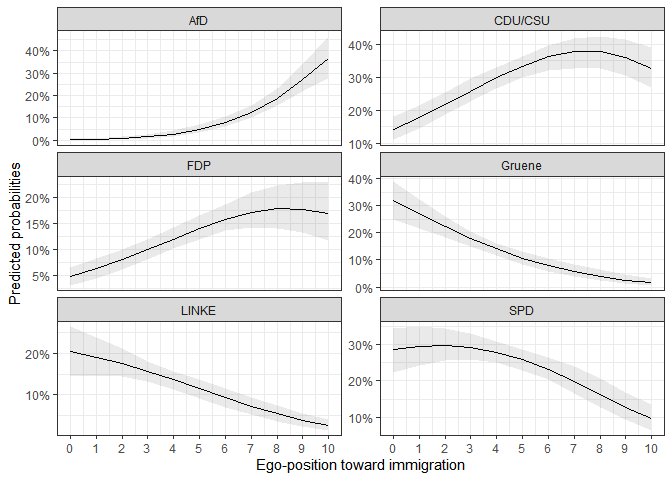
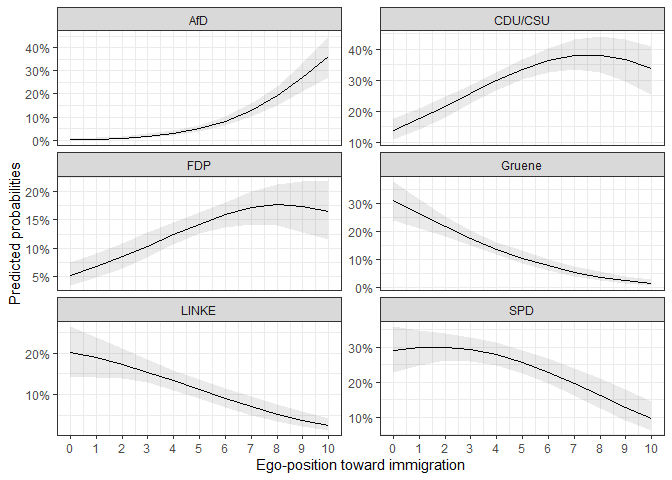
Migrating from Travis CI to GitHub Actions

diff --git a/README.md b/README.md
@@ -7,11 +7,11 @@
 
 [![GPLv3
 license](https://img.shields.io/badge/License-GPLv3-blue.svg)](https://perso.crans.org/besson/LICENSE.html)
-[![Travis build
-status](https://travis-ci.org/ManuelNeumann/MNLpred.svg?branch=master)](https://travis-ci.org/ManuelNeumann/MNLpred)
 [![CRAN\_Status\_Badge](https://www.r-pkg.org/badges/version/MNLpred)](https://cran.r-project.org/package=MNLpred)
 [![downloads](https://cranlogs.r-pkg.org/badges/MNLpred)](https://www.r-pkg.org/badges/version/MNLpred)
 [![total\_downloads](https://cranlogs.r-pkg.org/badges/grand-total/MNLpred)](https://www.r-pkg.org/badges/version/MNLpred)
+[![R build
+status](https://github.com/ManuelNeumann/MNLpred/workflows/R-CMD-check/badge.svg)](https://github.com/ManuelNeumann/MNLpred/actions)
 <!-- badges: end -->
 
 This package provides functions that make it easy to get plottable
@@ -254,6 +254,7 @@ pred1 <- mnl_pred_ova(model = mod1,
                       seed = "random", # default
                       nsim = 100, # faster
                       probs = c(0.025, 0.975)) # default
+#> Warning: The argument xvari is deprecated; please use x instead.
 #> Multiplying values with simulated estimates:
 #> ================================================================================
 #> Applying link function:
@@ -266,13 +267,13 @@ returns a `plotdata` data set:
 
 ``` r
 pred1$plotdata %>% head()
-#>   egoposition_immigration vote        mean        lower       upper
-#> 1                       0  AfD 0.002280170 0.0008558598 0.005491734
-#> 2                       1  AfD 0.004375939 0.0018961206 0.009450405
-#> 3                       2  AfD 0.008229726 0.0041619617 0.016110250
-#> 4                       3  AfD 0.015121617 0.0088159160 0.027347834
-#> 5                       4  AfD 0.027047128 0.0178399439 0.044993868
-#> 6                       5  AfD 0.046869060 0.0344841912 0.070355686
+#>   egoposition_immigration vote        mean       lower       upper
+#> 1                       0  AfD 0.002573855 0.001037561 0.006108907
+#> 2                       1  AfD 0.004879975 0.002281916 0.010206829
+#> 3                       2  AfD 0.009071440 0.004868063 0.017062220
+#> 4                       3  AfD 0.016474478 0.009890898 0.027905467
+#> 5                       4  AfD 0.029107386 0.019508769 0.043061536
+#> 6                       5  AfD 0.049774098 0.036301252 0.065773320
 ```
 
 As we can see, it includes the range of the x variable, a mean, a lower,
@@ -313,6 +314,7 @@ fdif1 <- mnl_fd2_ova(model = mod1,
                      value1 = min(gles$egoposition_immigration),
                      value2 = max(gles$egoposition_immigration),
                      nsim = 100)
+#> Warning: The argument xvari is deprecated; please use x instead.
 #> Multiplying values with simulated estimates:
 #> ================================================================================
 #> Applying link function:
@@ -356,6 +358,9 @@ fdif2 <- mnl_fd_ova(model = mod1,
                     scenname = "gender",
                     scenvalues = c(0,1),
                     nsim = 100)
+#> Warning: The argument xvari is deprecated; please use x instead.
+#> Warning: The argument scenname is deprecated; please use z instead.
+#> Warning: The argument scenvalues is deprecated; please use z_values instead.
 #> First scenario:
 #> Multiplying values with simulated estimates:
 #> ================================================================================
@@ -376,13 +381,13 @@ used to plot the differences.
 
 ``` r
 fdif2$plotdata_fd %>% head()
-#>   egoposition_immigration vote         mean        lower        upper
-#> 1                       0  AfD -0.003090183 -0.006936944 -0.001006274
-#> 2                       1  AfD -0.005810533 -0.011890347 -0.002198163
-#> 3                       2  AfD -0.010675364 -0.020070808 -0.004674165
-#> 4                       3  AfD -0.019088597 -0.033123068 -0.009552083
-#> 5                       4  AfD -0.033055017 -0.052620717 -0.018523845
-#> 6                       5  AfD -0.055067265 -0.081466477 -0.034462678
+#>   egoposition_immigration vote         mean        lower         upper
+#> 1                       0  AfD -0.002885746 -0.006398719 -0.0009715812
+#> 2                       1  AfD -0.005470656 -0.011406509 -0.0021341759
+#> 3                       2  AfD -0.010132628 -0.019666757 -0.0043554636
+#> 4                       3  AfD -0.018265903 -0.031968308 -0.0084270058
+#> 5                       4  AfD -0.031887635 -0.050668206 -0.0168462669
+#> 6                       5  AfD -0.053539723 -0.078863334 -0.0302089752
 ```
 
 Since the function calls the `mnl_pred_ova()` function internally, it
@@ -465,7 +470,7 @@ Gschwend](https://www.sowi.uni-mannheim.de/gschwend/)).
 
 ## References
 
-<div id="refs" class="references hanging-indent">
+<div id="refs" class="references">
 
 <div id="ref-hanmer2013">
 
